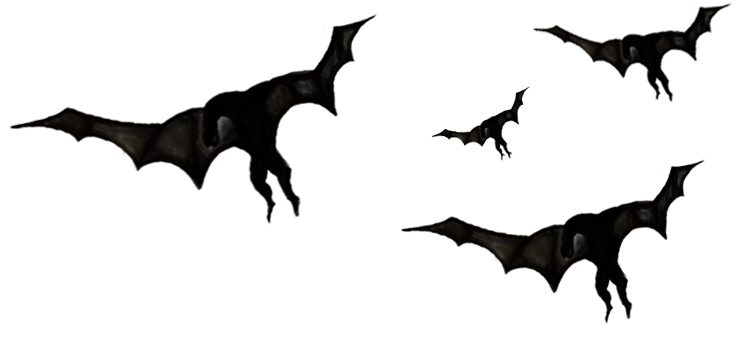
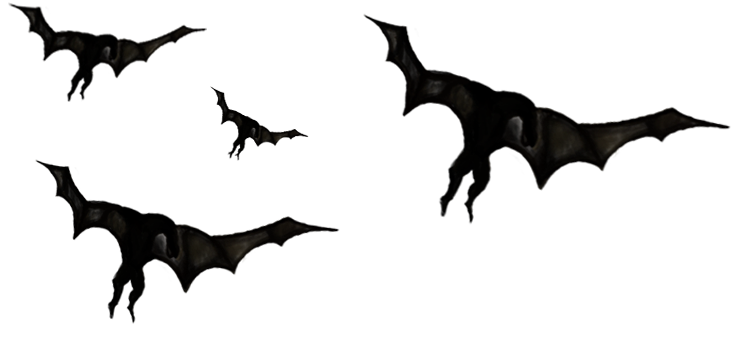
Avance cinematicas
La primera cinematica ya tiene un texto de prueba y todas las animaciones, la segunda hay que añadir textos.

Changed region(s): [[0.0, 0.0, 0.9946, 0.9412], [0.0, 0.0, 0.2797, 0.2941]]

diff --git a/Dagor_Dagorath/Script/Cinematic.js b/Dagor_Dagorath/Script/Cinematic.js
@@ -26,6 +26,7 @@ DagorDagorath.Cinematic.prototype = {
 		//Fondo
 		this.background = this.game.add.tileSprite(0, 0, 1000, 667, 'Fondo');
 
+		//Cinematica 1//////////////////////////////////////////////////////////////////////////////////////
 		olas = this.game.add.sprite(0,0,'Ilustracion1_Olas');
 
 		marco = this.game.add.sprite(0,0, 'Ilustracion1_Marco');
@@ -49,6 +50,8 @@ DagorDagorath.Cinematic.prototype = {
 		olas.alpha = 1;
 		texto1.alpha = 0;
 		texto1_2.alpha = 0;
+		////////////////////////////////////////////////////////////////////////////////////////////////////
+
 
 		//Cinematica 2//////////////////////////////////////////////////////////////////////////////////////
 		alrededores = this.game.add.sprite(0,0,'Ilustracion2_Marco');
@@ -60,9 +63,9 @@ DagorDagorath.Cinematic.prototype = {
 	 	morgoth.width = 580;
 		morgoth.height = 667;
 
-	 	nazguls = this.game.add.sprite(620,-120,'Ilustracion2_Nazguls');
-	 	nazguls.width = 300;
-		nazguls.height = 122;
+	 	nazguls = this.game.add.sprite(150,-120,'Ilustracion2_Nazguls');
+	 	nazguls.width = 250;
+		nazguls.height = 102;
 		////////////////////////////////////////////////////////////////////////////////////////////////////
 		  
 
@@ -99,6 +102,10 @@ DagorDagorath.Cinematic.prototype = {
 
 	},
 
+	saltar: function(){
+		this.game.state.start('Game');
+	},
+
 	desapareceTexto1: function() 
 	{
 		tween3 = this.game.add.tween(texto1).to( { alpha: 0 }, 2000,  Phaser.Easing.Quartic.Out, true);
@@ -119,7 +126,6 @@ DagorDagorath.Cinematic.prototype = {
 		tween2 = this.game.add.tween(olas).to({x: -1000}, 20000, Phaser.Easing.Linear.None);   
 		tween2.start();
 		tween.onComplete.add(this.cinematica2, this);
-		//this.game.state.start('Game');
 	},
 
 	cinematica2: function()
@@ -143,25 +149,32 @@ DagorDagorath.Cinematic.prototype = {
 
 	entradaNazguls: function()
 	{
-		tween = this.game.add.tween(nazguls).to({x:470, y:60}, 5000, Phaser.Easing.Quartic.In);   
+		tween = this.game.add.tween(nazguls).to({x:270, y:60}, 2000, Phaser.Easing.Bounce.In);   
 		tween.start();
-		tween = this.game.add.tween(nazguls.scale).to({x: 0.45, y: 0.45}, 5000, Phaser.Easing.Quartic.In);
-		tween.start();
+		tween2 = this.game.add.tween(nazguls.scale).to({x: 0.30, y: 0.30}, 2000, Phaser.Easing.Cubic.In);
+		tween2.start();
 
-		tween.onComplete.add(this.salidaNazguls, this);
+		tween2.onComplete.add(this.salidaNazguls, this);
 	},
 
 	salidaNazguls: function()
 	{
-		tween = this.game.add.tween(nazguls).to({x:200, y:-260}, 5000, Phaser.Easing.Quartic.Out);   
+		tween = this.game.add.tween(nazguls).to({x:410, y:-260}, 2000, Phaser.Easing.Bounce.Out);   
 		tween.start();
-		tween = this.game.add.tween(nazguls.scale).to({x: 0.60, y: 0.60}, 5000, Phaser.Easing.Quartic.Out);
-		tween.start();
+		tween2 = this.game.add.tween(nazguls.scale).to({x: 0.40, y: 0.40}, 2000, Phaser.Easing.Cubic.Out);
+		tween2.start();
 
-		tween.onComplete.add(this.saltar, this);
+		tween2.onComplete.add(this.entradaNazguls2, this);
 	},
 
-	saltar: function(){
-		this.game.state.start('Game');
+	entradaNazguls2: function()
+	{
+		tween = this.game.add.tween(nazguls).to({x:535, y:45}, 2000, Phaser.Easing.Cubic.Out);   
+		tween.start();
+		tween2 = this.game.add.tween(nazguls.scale).to({x: 0.50, y: 0.50}, 2000, Phaser.Easing.Cubic.Out);
+		tween2.start();
+
+		//tween2.onComplete.add(this.saltar, this);
 	}
+
 }
